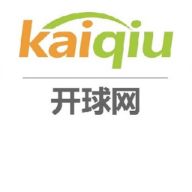
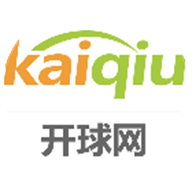
Update homepage layout and branding assets

diff --git a/pages/index.vue b/pages/index.vue
@@ -5,13 +5,14 @@
       <div class="absolute inset-0 bg-[radial-gradient(ellipse_at_top_right,_var(--tw-gradient-stops))] from-brand-primaryHover/10 via-white to-white"></div>
       <div class="absolute -top-24 -right-24 w-96 h-96 bg-brand-primary/5 rounded-full blur-3xl"></div>
       
-      <div class="container relative pt-20 pb-24 md:pt-32 md:pb-36 flex flex-col items-center md:items-start text-center md:text-left">
+      <div class="container relative pt-10 pb-12 md:pt-20 md:pb-24 flex flex-col items-center md:items-start text-center md:text-left">
         <div class="inline-flex items-center gap-2 px-3 py-1.5 rounded-full bg-brand-primary/10 text-brand-primary text-sm font-semibold mb-6">
           <span class="w-2 h-2 rounded-full bg-brand-primary animate-pulse"></span>
           网页版全新上线
         </div>
         <h1 class="font-display text-4xl md:text-6xl font-bold tracking-tight text-text-main mb-6 leading-tight max-w-2xl">
-          精准连接赛事 <br/> <span class="bg-clip-text text-transparent bg-gradient-to-r from-brand-primary to-brand-primaryHover">随时掌控积分</span>
+          精准连接赛事
+          <span class="mt-2 block bg-clip-text text-transparent bg-gradient-to-r from-brand-primary to-brand-primaryHover md:mt-3">随时掌控积分</span>
         </h1>
         <p class="text-text-muted text-lg md:text-xl max-w-xl mb-10 leading-relaxed">
           全网最快最全查询系统，覆盖全国比赛、优选球馆、教练与裁判，致力于为您提供最高效的体验。
@@ -29,8 +30,8 @@
     </section>
 
     <!-- Content Sections -->
-    <div class="bg-surfaceMuted py-16 md:py-24 space-y-20">
-      <div class="container space-y-16">
+    <div class="bg-surfaceMuted py-12 md:py-16 space-y-16">
+      <div class="container space-y-12">
         
         <!-- Recent Matches -->
         <section>
@@ -53,15 +54,15 @@
           </div>
         </section>
 
-        <!-- Popular Players -->
+        <!-- Featured Players -->
         <section>
           <div class="flex items-end justify-between mb-8">
             <div>
-              <h2 class="font-display text-2xl md:text-3xl font-bold text-text-main">风云榜</h2>
-              <p class="text-text-muted mt-2 hidden sm:block">展示近期活跃的热门选手</p>
+              <h2 class="font-display text-2xl md:text-3xl font-bold text-text-main">风云选手</h2>
+              <p class="text-text-muted mt-2 hidden sm:block">发现并了解您身边的积分强者</p>
             </div>
             <a href="/scores" class="group inline-flex items-center text-brand-primary font-medium hover:text-brand-primaryHover transition-colors">
-              查看全部
+              查看更多
               <svg class="w-4 h-4 ml-1 transform group-hover:translate-x-1 transition-transform" fill="none" stroke="currentColor" viewBox="0 0 24 24"><path stroke-linecap="round" stroke-linejoin="round" stroke-width="2" d="M9 5l7 7-7 7"></path></svg>
             </a>
           </div>
@@ -94,7 +95,7 @@
                   <span class="font-medium text-text-main">{{ u.maxscore }}</span>
                 </div>
               </div>
-              <NuxtLink :to="`/scores/${u.uid}`" target="_blank" rel="noopener noreferrer" class="absolute inset-0 z-10">
+              <NuxtLink :to="`/scores/${u.uid}`" class="absolute inset-0 z-10">
                 <span class="sr-only">选手详情</span>
               </NuxtLink>
             </article>
@@ -119,6 +120,9 @@ const matches = ref([])
 const users = ref([])
 const loadingMatches = ref(true)
 const loadingUsers = ref(true)
+
+const FEATURED_PLAYERS_CITY = '-1'
+const FEATURED_PLAYERS_INDEX = 11111
 
 const loadMatches = async () => {
   loadingMatches.value = true
@@ -146,8 +150,22 @@ const loadMatches = async () => {
 const loadUsers = async () => {
   loadingUsers.value = true
   try {
-    const res = await $api('/user/lists', { method: 'POST', body: { city: city.value, sort: 2, page: 1, index: 0 } })
-    users.value = res?.data?.data?.slice(0, 4) || []
+    const res = await $api('/user/lists', {
+      method: 'POST',
+      body: {
+        city: FEATURED_PLAYERS_CITY,
+        now: city.value,
+        sort: 2,
+        page: 1,
+        index: FEATURED_PLAYERS_INDEX
+      }
+    })
+    const userList = Array.isArray(res?.data?.data) ? res.data.data : []
+
+    users.value = userList
+      .slice()
+      .sort((a, b) => (Number(b?.score) || 0) - (Number(a?.score) || 0))
+      .slice(0, 4)
   } catch (e) {
     users.value = []
   } finally {

diff --git a/components/card/MatchCard.vue b/components/card/MatchCard.vue
@@ -15,7 +15,7 @@
         </span>
       </div>
     </div>
-    <div class="p-5 flex flex-col flex-1">
+    <div class="relative p-5 flex flex-col flex-1">
       <h3 class="font-semibold text-text-main line-clamp-2 leading-snug group-hover:text-brand-primary transition-colors text-lg flex-1">
         {{ match.title }}
       </h3>
@@ -30,18 +30,26 @@
           <span class="truncate">{{ match.arena_name }}</span>
         </div>
       </div>
+
+      <img
+        v-if="isRecommended"
+        src="/recommend.png"
+        alt="推荐赛事"
+        class="pointer-events-none absolute right-2 bottom-6 z-10 h-48 w-auto object-contain"
+      >
       
-      <div class="mt-5 flex items-center justify-between border-t border-surfaceSoft pt-4">
+      <div class="mt-5 flex items-end justify-between gap-3 border-t border-surfaceSoft pt-4">
         <span v-if="match.distance !== undefined" class="rounded-md bg-brand-secondary/10 px-2.5 py-1 text-xs font-semibold text-brand-secondary">
           距您 {{ formatDistance(match.distance) }}
         </span>
         <span v-else></span>
-        <span
-          v-if="joinCountLabel"
-          class="inline-flex items-center rounded-md border border-[#39b54a] bg-white px-2.5 py-1 text-xs font-semibold text-[#39b54a]"
-        >
-          {{ joinCountLabel }}
-        </span>
+        <div v-if="joinCountLabel" class="flex flex-col items-end gap-2">
+          <span
+            class="inline-flex items-center rounded-md border border-[#39b54a] bg-white px-2.5 py-1 text-xs font-semibold text-[#39b54a]"
+          >
+            {{ joinCountLabel }}
+          </span>
+        </div>
         <span v-else class="inline-flex items-center text-sm font-medium text-brand-primary transition-transform group-hover:translate-x-1">
           详情
           <svg class="ml-0.5 h-4 w-4" fill="none" stroke="currentColor" viewBox="0 0 24 24"><path stroke-linecap="round" stroke-linejoin="round" stroke-width="2" d="M9 5l7 7-7 7"></path></svg>
@@ -65,6 +73,11 @@ const joinCountLabel = computed(() => {
   const count = props.match?.membernum
   if (count === null || count === undefined || count === '') return ''
   return `${count}人参加`
+})
+
+const isRecommended = computed(() => {
+  const grade = Number(props.match?.grade)
+  return Number.isFinite(grade) && grade > 0
 })
 
 // 格式化距离显示

diff --git a/layouts/default.vue b/layouts/default.vue
@@ -4,9 +4,11 @@
       <div class="container flex items-center justify-between h-16 md:h-20">
         <!-- Logo -->
         <a href="/" class="flex items-center gap-3 group">
-          <div class="w-10 h-10 rounded-full bg-gradient-to-br from-brand-primary to-brand-primaryHover flex items-center justify-center text-white font-bold text-xl shadow-card group-hover:scale-105 transition-transform duration-smooth">
-            K
-          </div>
+          <img
+            src="/apple-touch-icon.png"
+            alt=""
+            class="w-10 h-10 rounded-full object-cover bg-white shadow-card group-hover:scale-105 transition-transform duration-smooth"
+          >
           <span class="font-display font-semibold tracking-wide text-xl text-text-main group-hover:text-brand-primary transition-colors">开球网</span>
         </a>
         
@@ -86,12 +88,16 @@
 
     <footer class="bg-white border-t border-border py-10 md:py-12 text-sm text-text-muted mt-auto">
       <div class="container flex flex-col md:flex-row items-center justify-between gap-6">
-        <div class="flex items-center gap-2">
-          <div class="w-6 h-6 rounded-full bg-brand-primary flex items-center justify-center text-white font-bold text-xs">K</div>
+        <div class="flex items-center gap-2.5">
+          <img
+            src="/favicon-32x32.png"
+            alt=""
+            class="w-7 h-7 rounded-full object-cover bg-white"
+          >
           <span class="font-display font-medium text-text-main">开球网网页版</span>
         </div>
         <div class="text-xs text-text-light text-center md:text-right">
-          © 2026 Kaiqiu PC
+          © 2026 Kaiqiu Web
         </div>
       </div>
     </footer>

diff --git a/components/match/MatchCompetitionPanel.vue b/components/match/MatchCompetitionPanel.vue
@@ -73,26 +73,26 @@
               <MatchGroupMatrix :group="group" />
             </div>
           </section>
-
-          <section
-            v-if="selectedItem.knockoutRounds.length"
-            class="rounded-[28px] border border-border bg-white p-5 shadow-sm"
-          >
-            <div class="border-b border-border pb-4">
-              <h3 class="font-display text-lg font-bold text-text-main">{{ selectedItem.label }}</h3>
-              <p class="mt-1 text-sm text-text-muted">淘汰赛树状对阵图，点击姓名查看详情</p>
-            </div>
-
-            <div class="mt-5">
-              <MatchKnockoutBracket :rounds="selectedItem.knockoutRounds" />
-            </div>
-          </section>
         </div>
 
         <aside class="xl:sticky xl:top-6">
           <MatchHonorRanking :honors="selectedItem.honors" />
         </aside>
       </div>
+
+      <section
+        v-if="selectedItem.knockoutRounds.length"
+        class="rounded-[28px] border border-border bg-white p-5 shadow-sm"
+      >
+        <div class="border-b border-border pb-4">
+          <h3 class="font-display text-lg font-bold text-text-main">{{ selectedItem.label }}</h3>
+          <p class="mt-1 text-sm text-text-muted">淘汰赛树状对阵图，点击姓名查看详情</p>
+        </div>
+
+        <div class="mt-5">
+          <MatchKnockoutBracket :rounds="selectedItem.knockoutRounds" />
+        </div>
+      </section>
     </div>
   </section>
 </template>
